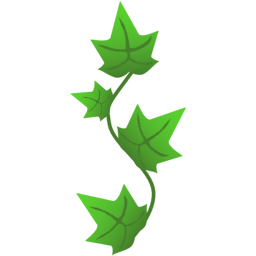
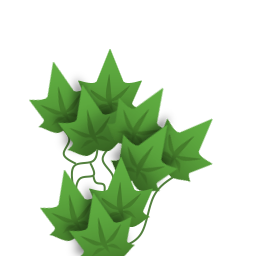
feat: finalize border decoration visuals

Changed region(s): [[0.0938, 0.0, 0.8438, 1.0]]

diff --git a/src/App.js b/src/App.js
@@ -594,7 +594,7 @@ const App = {
         }
         document.addEventListener('DOMContentLoaded', function(event) {
             initializeRenderer();
-            App.initOverlay();
+            App.initDecorationOverlay();
         });
         window.onbeforeunload = function(){
             App.sendSessionEvent(false);
@@ -607,7 +607,7 @@ const App = {
             clearTimeout(resizeEventTimeout);
             resizeEventTimeout = setTimeout(() => {
                 UI.show(document.querySelector('.overlay-container'));
-                App.initOverlay();
+                App.initDecorationOverlay();
             }, App.constants.ONE_SECOND * 0.1);
         });
 
@@ -703,7 +703,9 @@ const App = {
         document.addEventListener('mouseup', touchDownHandler);
         document.addEventListener('touchend', touchDownHandler);
     },
-    initOverlay: function(){
+    initDecorationOverlay: function(){
+        if(App.isOnElectronClient) return;
+
         const container = document.querySelector('.overlay-container');
         container.innerHTML = '';
 
@@ -781,14 +783,10 @@ const App = {
             position.x += random(-24, 24);
             position.y += random(-24, 24);
 
-            if(random(0, 4) === 0) currentImageIndex = random(2, 5);
-            // if(i % 1 === 0 || true) currentImageIndex = ((currentImageIndex + 1) % 3) + 1;
-            currentImageIndex = random(2, 5);
-            // if(random(0, 5) === 0) currentImageIndex = 1;
-            currentImageIndex = 5;
+            currentImageIndex = randomFromArray([ 2, 4]);
+            if(random(0, 1)) currentImageIndex = 5;
 
             let rotation = getAngleToCenter(position.x, position.y);
-            // rotation = Math.round((rotation) / 45) * 45;
             // rotation = position.r;
 
             UI.create({
